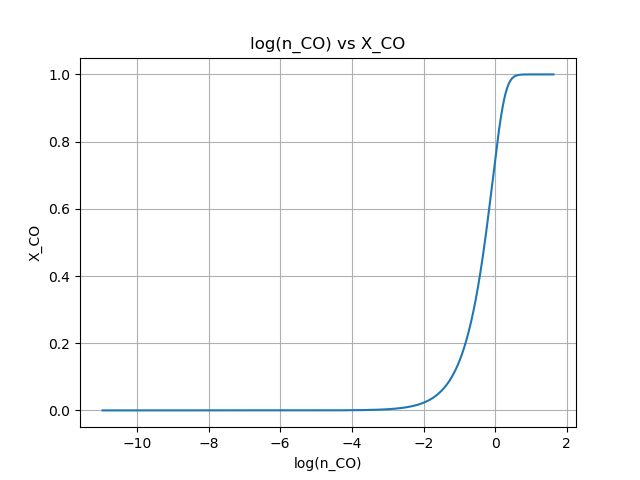
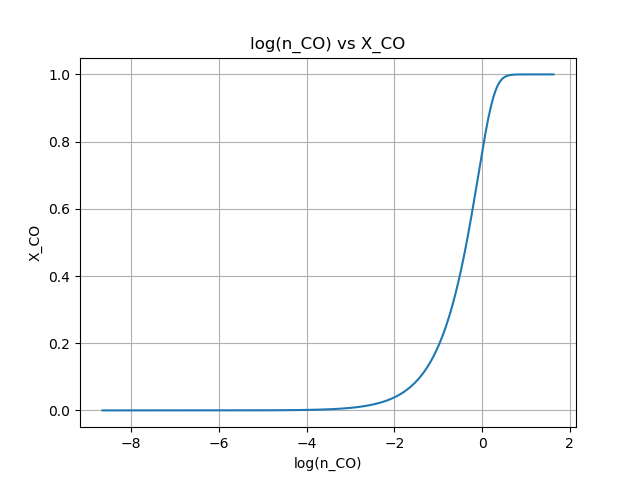
Trying a new method of converging
Trying a new method of converging the X_H2 values after using self shielding Draine's formula. A very very very slight change in the plots, meaning it converges very fast.

diff --git a/X_H2_self_shielding.py b/X_H2_self_shielding.py
@@ -94,9 +94,17 @@ def CO_density():
     X_H2_a = calc_X_H2(n_H, Z, n_LW)
     n_H2_a = n_H * X_H2_a
 
-    n_LW_ss, S_H2, N_H2 = calc_n_LW_ss(n_H, n_H2_a, G_o, lambda_jeans)
-    X_H2 = calc_X_H2(n_H, Z, n_LW_ss)
-    n_H2 = n_H * X_H2
+    
+    ctr = 0
+    if ctr < 5:
+        n_LW_ss, S_H2, N_H2 = calc_n_LW_ss(n_H, n_H2_a, G_o, lambda_jeans)
+        X_H2 = calc_X_H2(n_H, Z, n_LW_ss)
+        n_H2 = n_H * X_H2
+        ctr += 1
+        X_H2_a = X_H2
+        n_H2_a = n_H2
+
+    if
 
     X_CO = calc_X_CO(n_H, n_H2_a, n_LW)
     n_CO = calc_n_CO(n_H, X_CO)
